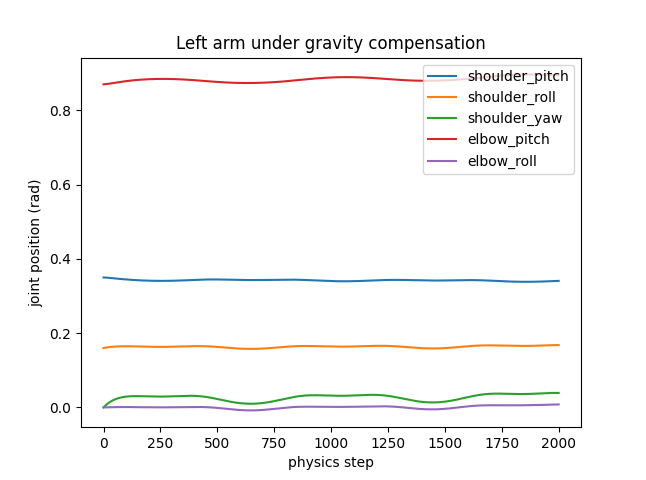
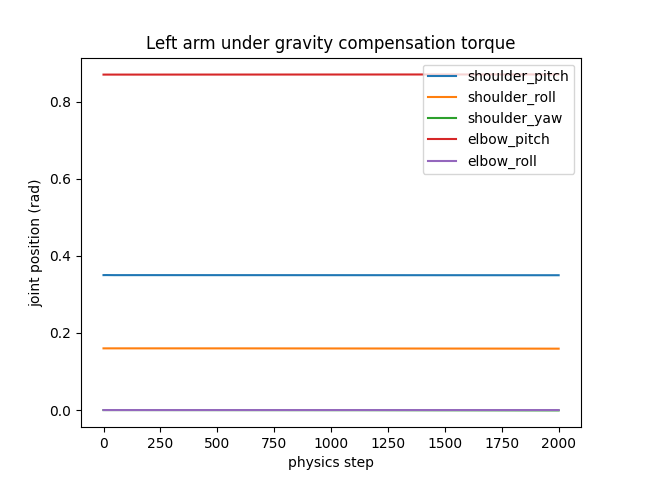
Update validation figures and mark validation as in progress
- Replace the zero-torque, Isaac gravity and Pinocchio gravity figures
  with corrected runs
- State that results so far cover a single arm configuration
  (Isaac Lab's default pose)

diff --git a/validation/README.md b/validation/README.md
@@ -1,5 +1,8 @@
 # Gravity validation: Pinocchio vs Isaac Sim
 
+> Work in progress. The first results below are from a single arm configuration (Isaac Lab's
+> default pose); a broader comparison is in progress.
+
 This check confirms that the Pinocchio model used by the adaptive controller computes the same
 gravity torques for the G1 left arm as the robot simulated in Isaac Sim.
 
@@ -103,8 +106,7 @@ confirms that the left arm is in effort mode with its PD drive off.
 ![Left arm under zero torque](figures/Left_arm_under_zero_torque.png)
 
 **`gravity`: the arm holds its pose.** With Isaac's own gravity torques, the joints stay close to
-their initial positions. A small, slow drift is visible in this run, mainly in `shoulder_yaw` and
-`elbow_pitch`.
+their initial positions.
 
 ![Left arm under Isaac gravity compensation](figures/Left_arm_under_gravity_compensation.png)
 
@@ -115,7 +117,7 @@ joints stay close to their initial positions.
 
 **Overlay.** Joint positions under Pinocchio's torques (solid) and Isaac's torques (dashed). At this
 scale the two sets of curves overlap, which indicates that Pinocchio's gravity torques agree with
-Isaac Sim's (PhysX) for the left arm.
+Isaac Sim's (PhysX) for the left arm at this pose.
 
 ![Pinocchio vs Isaac gravity compensation](figures/pin_isaac_gravity_compensation.png)
 ## Notes and limitations
@@ -127,6 +129,8 @@ Isaac Sim's (PhysX) for the left arm.
 - **Not in the URDF:** joint armature, friction and damping. They do not affect gravity, but
   armature adds to the effective joint inertia, so it must be added to $M(q)$ for the full
   controller.
+- **One configuration so far.** The arm starts at, and holds, Isaac Lab's default pose, so these
+  runs test $g(q)$ at that pose only.
 - **Single environment.** Pinocchio runs on the CPU for environment 0 only, and only that
   environment is logged.
 - **Unused actions.** The runner still sends an action signal to the environment, but this

diff --git a/README.md b/README.md
@@ -15,7 +15,7 @@ guarantees bounded parameter estimates and convergence of the tracking error.
 - [ ] Add arm actions so the policy can lift, not only grasp (current env: fixed base, 1-D hand synergy action only)
 - [ ] Randomize object mass during training (currently fixed at 0.2 kg)
 - [ ] Connecting PPO to the G1 grasp environment for training (in progress; `g1_grasp_train.py` is a placeholder loop)
-- [x] Pinocchio gravity torques for the G1 left arm checked against Isaac Sim (see [`validation/`](validation/README.md))
+- [ ] Validate Pinocchio's model of the G1 left arm against Isaac Sim (in progress: first gravity check at the default pose, see [`validation/`](validation/README.md))
 - [ ] Pinocchio-based online computation of the dynamics regressor (in progress)
 - [ ] Slotine–Li adaptive control law (theory studied; implementation next)
 - [ ] Combining the adaptive controller with the learned policy
@@ -52,8 +52,8 @@ validation/                  Checks that Pinocchio's model of the G1 arm matches
 The adaptive controller will compute the arm's joint torques from a Pinocchio model of the robot,
 so that model must match the robot simulated in Isaac Sim. Otherwise the stability analysis no
 longer applies, and the adaptation law would absorb arm-model errors into its payload estimate.
-[`validation/`](validation/README.md) holds a standalone check, separate from training, that
-starts with gravity: the left arm is driven by Pinocchio's gravity torques and by Isaac's own, and
+[`validation/`](validation/README.md) holds a standalone check, separate from training and still
+in progress, that starts with gravity: the left arm is driven by Pinocchio's gravity torques and by Isaac's own, and
 the two runs are compared. See [`validation/README.md`](validation/README.md) for the setup,
 how to run it and the figures.
 
